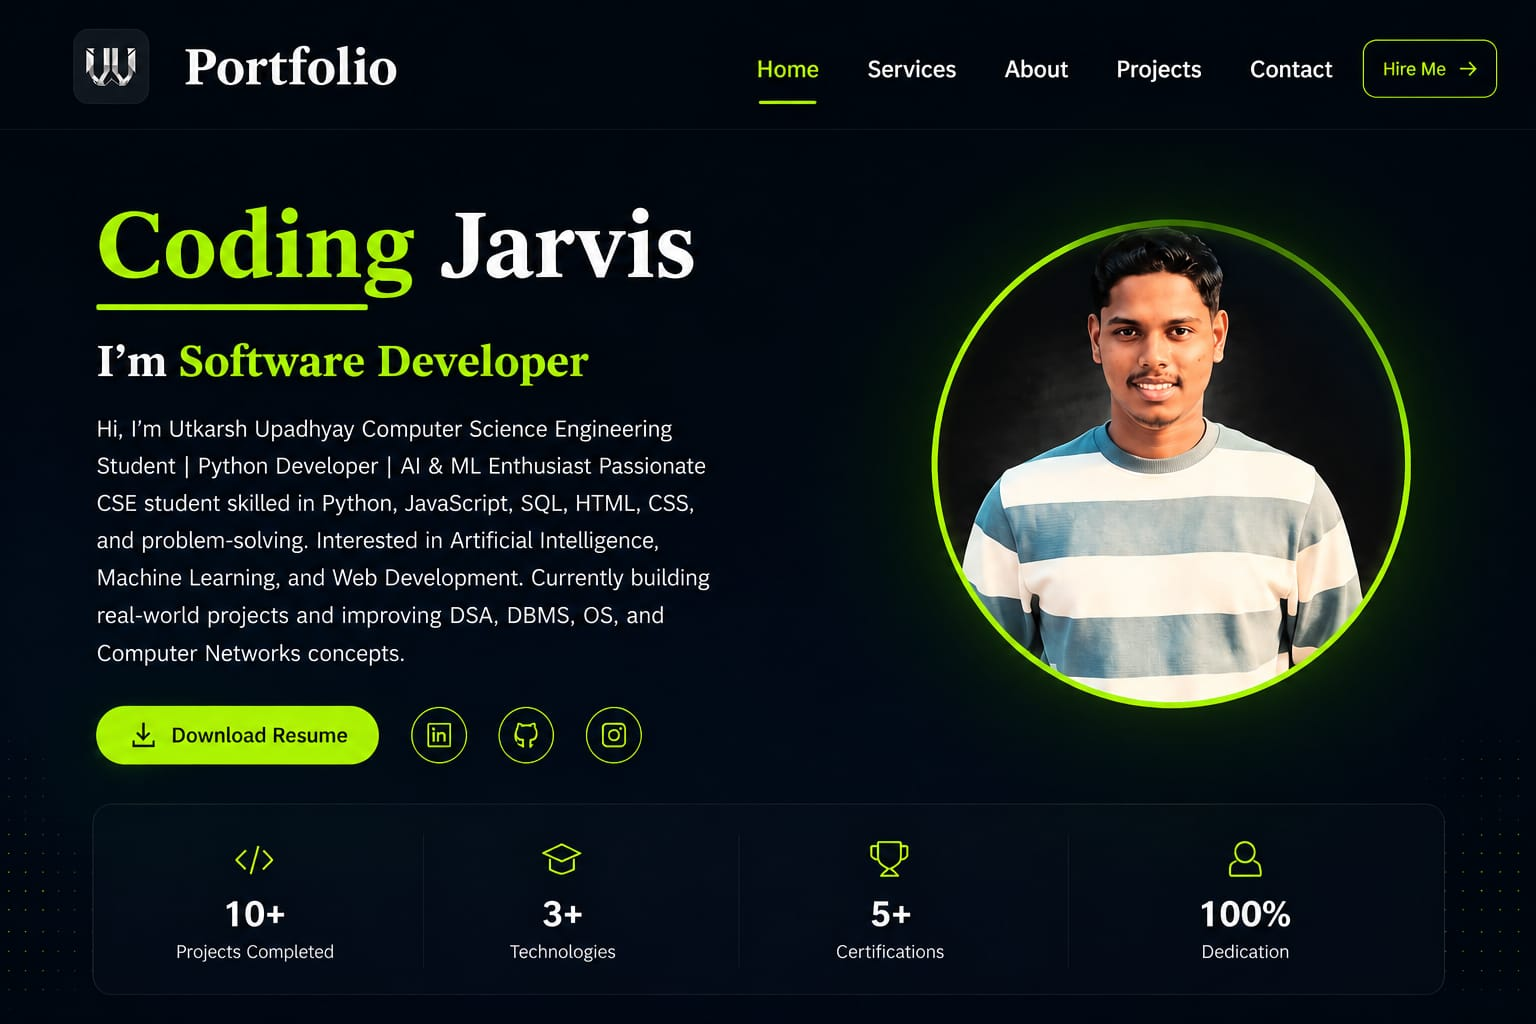
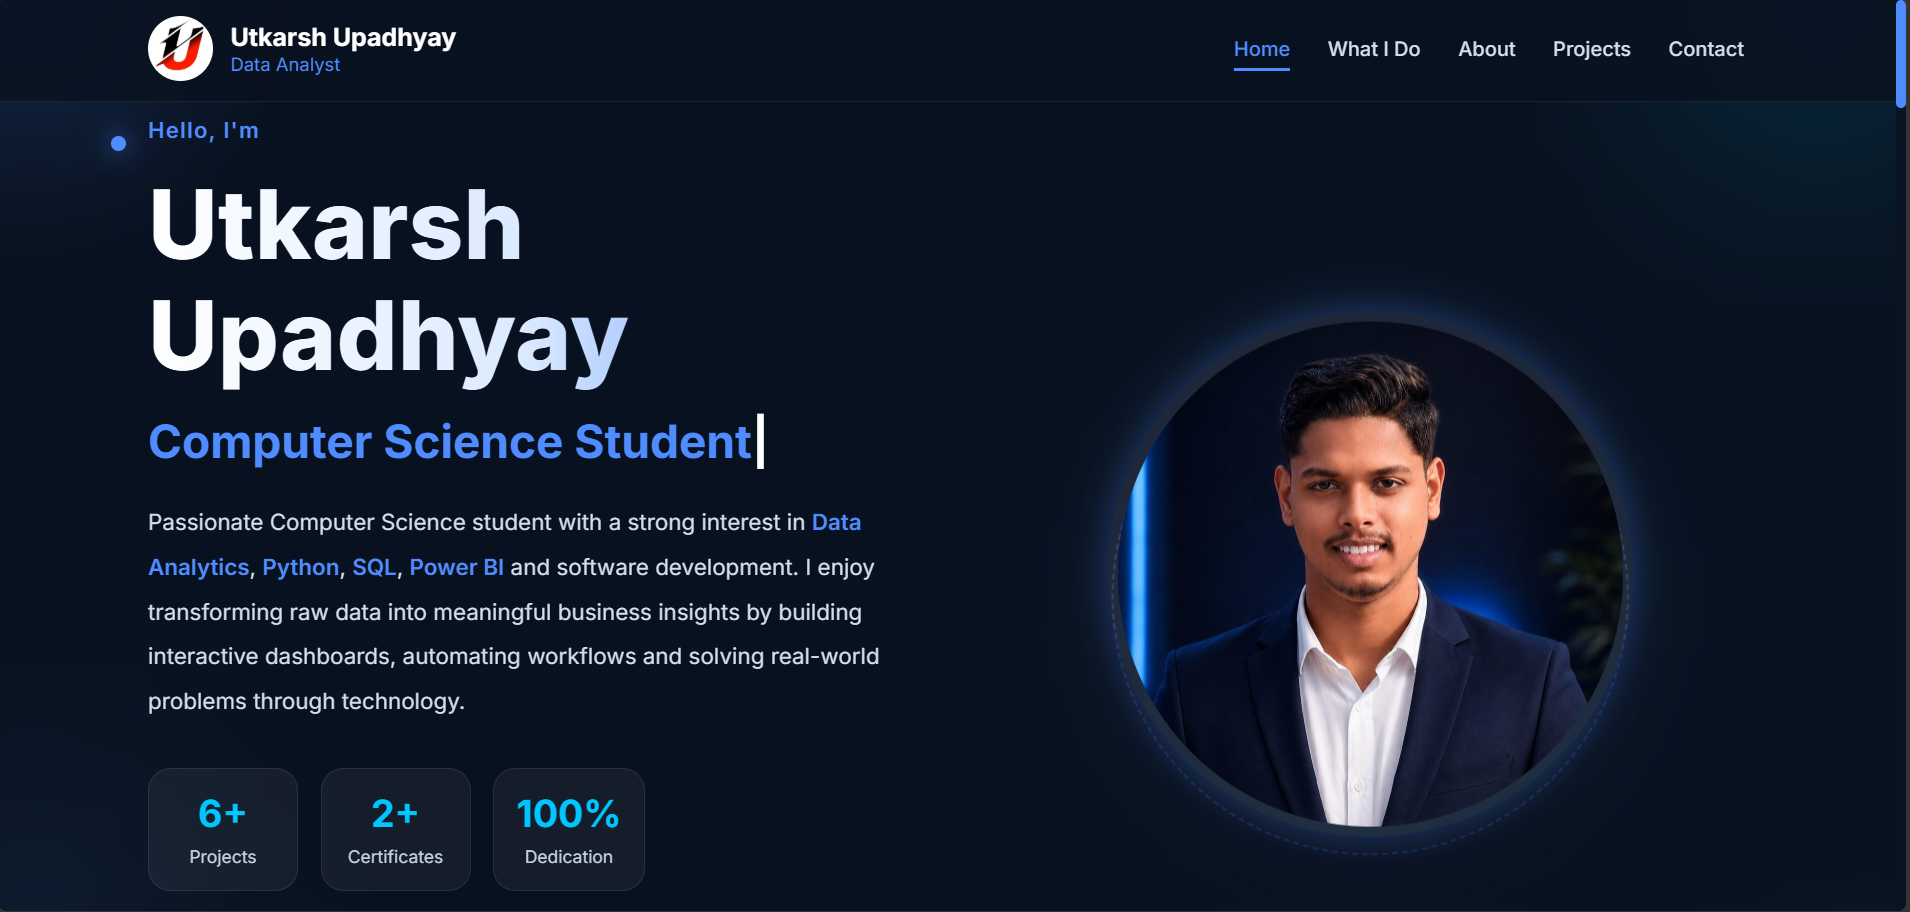
Updated about and project section image

diff --git a/index.html b/index.html
@@ -441,7 +441,7 @@
 
                     <div class="about-image">
 
-                        <img src="assets/profile.png" alt="Utkarsh Upadhyay">
+                        <img src="assets/mainprofile.jpeg" alt="Utkarsh Upadhyay">
 
                     </div>
 
@@ -1172,7 +1172,7 @@
 
                 <div class="project-card" data-category="web">
 
-                    <img src="assets/personal portfolio.png" alt="Personal Portfolio Website" class="project-image">
+                    <img src="assets/portfolio-preview.png" alt="Personal Portfolio Website" class="project-image">
 
                     <div class="project-info">
 
@@ -1227,7 +1227,7 @@
 
                 <div class="project-card" data-category="web">
 
-                    <img src="assets/spotify.png" alt="Spotify Clone" class="project-image">
+                    <img src="assets/spotify-preview.png" alt="Spotify Clone" class="project-image">
 
                     <div class="project-info">
 
